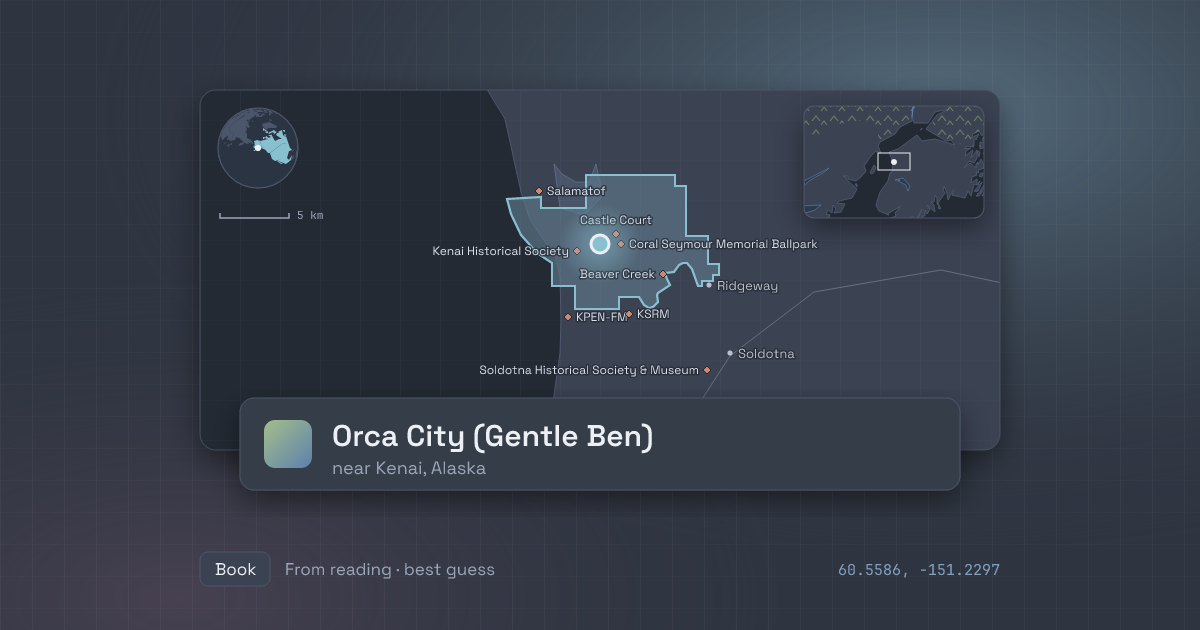
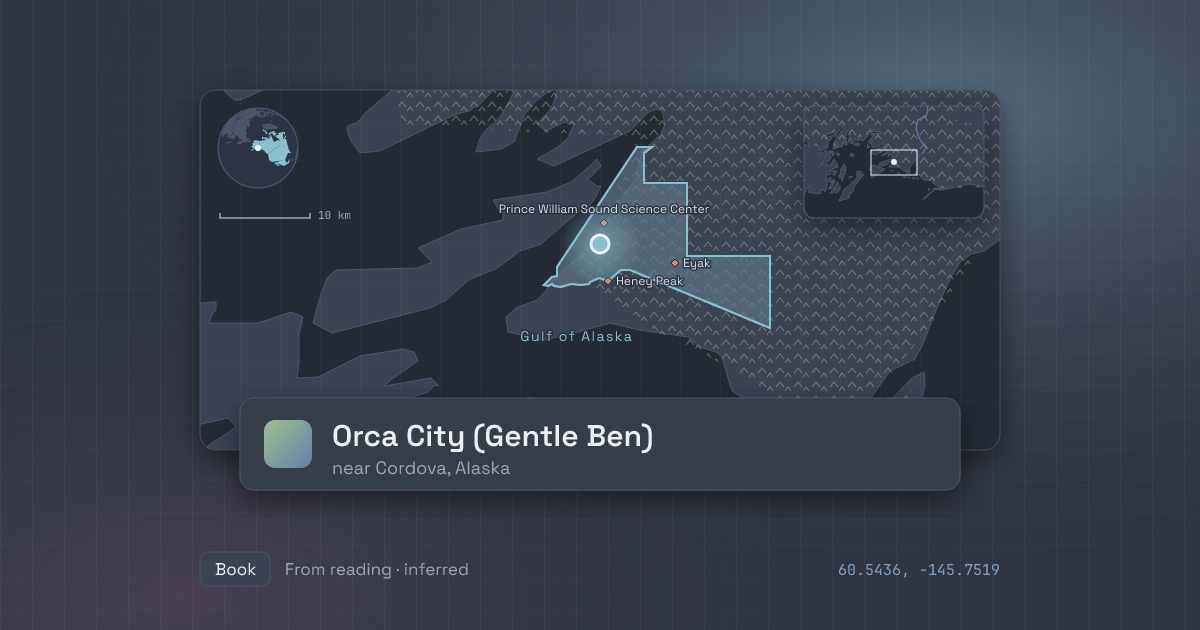
Map scan: Gentle Ben done; Orca City re-pinned to Cordova; Hinchinbrook Island, Windy Point trap

diff --git a/content/Places/Orca City (Gentle Ben).md b/content/Places/Orca City (Gentle Ben).md
@@ -2,8 +2,8 @@
 publish: true
 title: Orca City (Gentle Ben)
 created: 2026-11-23
-modified: 2026-11-26T23:17:18.241Z
-published: 2026-11-26T23:17:18.241Z
+modified: 2026-11-27T02:13:57.691Z
+published: 2026-11-27T02:13:57.691Z
 aliases:
   - Orca City
 books:
@@ -11,31 +11,33 @@ books:
 categories:
   - "[[Places]]"
 color: gray
-confidence: best-guess
-coordinates: 60.5586,-151.2297
-geo_note: "best-guess: the author calls Orca City a composite; the text's view of\
-  \ the Aleutian Range across an open-sea bay points to Cook Inlet, so pinned at Kenai"
+confidence: inferred
+coordinates: 60.5436,-145.7519
+geo_note: "inferred: the text puts Orca City on 'the Sound' among real Prince William\
+  \ Sound places (Valdez, Chenega, Latouche, Hinchinbrook), on 'Orca City Bay' between\
+  \ sea and steep mountain, with a floatplane lake a mile out of town; this matches\
+  \ Cordova on Orca Inlet (re-pinned from a Kenai best guess on 2026-11-27)"
 geo_source: Wikipedia (en)
 icon: book
+image: Attachments/Places/Orca City (Gentle Ben).svg
 location:
-  - 60.5586
-  - -151.2297
+  - 60.5436
+  - -145.7519
 tags:
   - places
   - place/literary
   - source/ai/claude
-within: "[[Kenai, Alaska]]"
-image: Attachments/Places/Orca City (Gentle Ben).svg
+within: "[[Cordova, Alaska]]"
 ---
 
 # Orca City (Gentle Ben)
 
-Fictional salmon-fishing village on the coast of territorial Alaska, pinned here at a best guess of Kenai on Cook Inlet. It is the home of Mark Andersen and the brown bear Ben in Walt Morey's _Gentle Ben_.
+Fictional salmon-fishing town on Prince William Sound in territorial Alaska, pinned at Cordova, which the book's clues point to. It is the home of Mark Andersen and the brown bear Ben in Walt Morey's _Gentle Ben_.
 
 ## At a glance
 | Source | Author | Role | In one line |
 |---|---|---|---|
-| Gentle Ben | Walt Morey | setting | Mark's one-street fishing town, swelling to thousands for the salmon run, where he befriends Fog Benson's chained bear. |
+| Gentle Ben | Walt Morey | setting | Mark's one-street fishing town on the Sound, where he befriends Fog Benson's chained bear and the town later turns against Ben. |
 
 ## Gentle Ben — Walt Morey (1965)
 Source: [Original](https://openlibrary.org/books/OL9347710M/Gentle_Ben) · [Readwise highlight](https://read.readwise.io/read/01m8d25wytj5sbse5cx89e824p)
@@ -43,7 +45,7 @@ Source: [Original](https://openlibrary.org/books/OL9347710M/Gentle_Ben) · [Read
 > Below, on his right, lay the uneven roofs of homes and stores of the fishing village of Orca City. Its one mud street, black and drying under the warm sun, slashed straight through the center of town to the bay and the sea, which stretched away, flat and endless, to the distant horizon.
 
 - **Role:** setting
-- **In the book:** Thirteen-year-old Mark Andersen lives on a rise above town, with the bay below on one side and the tundra on the other. He secretly visits Ben, Fog Benson's chained brown bear, in a shed at the edge of town, and later leads him out to a creek valley and boulder field on the tundra, where his father Karl finds them asleep together. Karl agrees to buy Ben. Before the season opens the town swells from a few hundred people to thousands, the bay fills with 1,100 seiners, and seven canneries and the fish traps get ready. Mark hauls restaurant scraps up to Ben. The Andersens then leave the town dock on their seiner _Far North_ for the fishing grounds.
-- **Why it matters:** The salmon town frames the story: Karl is a seiner fisherman, the season's opening sets the pace of the first half, and the tundra at the town's edge is where Mark and Ben are free together. Set elsewhere, the book would need the same mix of tundra, bears and canneries.
-- **Real vs. fictional:** Fictional. The author's note says "There is no Orca City as such. But its description could fit any one of a dozen fishing villages along the coast." The book is set before statehood, in the Territory of Alaska.
-- **Where is it?:** ⚠ Best guess. Clues in the text: "In the distance the Aleutian Range reared a row of white heads into the blue". The town's one mud street runs to a bay and a sea "flat and endless, to the distant horizon", with tundra and a glacier-fed salmon creek behind it. It has canneries, fish traps, cruise ships in summer, and Karl's eyes are "as cold as Columbia Glacier" (a Prince William Sound glacier, used only as a simile). Reference works (Wikipedia, the Oregon Encyclopedia on Morey) say only "Alaska". A sea horizon with the Aleutian Range in view fits the Cook Inlet coast, so the pin is on Kenai. The main alternative is Cordova, which the Columbia Glacier simile suggests but which has no view of the Aleutian Range. Other alternatives are Alaska Peninsula cannery towns.
+- **In the book:** Thirteen-year-old Mark Andersen lives on a rise above town, with the bay below on one side and the tundra on the other. He secretly visits Ben, Fog Benson's chained brown bear, in a shed at the edge of town, and Karl agrees to buy him. In summer the town swells to thousands for the salmon run; the Andersens fish the Sound on their seiner _Far North_, delivering salmon to the Northern Fisheries dock and buying old bread for Ben in Butteville, Chenega, Latouche and Valdez. In autumn Orca City shrinks back to "some three or four hundred persons". Over the winter the men at the Club Bar plot against Ben, Fog Benson attacks him in his shed, and Mayor Henry Beckett gives the family two days' notice. Mark leads Ben down Main Street at dawn to the Northern Fisheries dock, where he is crated onto the _Hustler_ to be shipped away. Later Ed Wright flies from his floatplane field on a lake a mile out of town to rescue Karl from the wrecked _Far North_ near "the Needle", where Clearwater drowns. From then on the town is the supply base for the Windy Point trap.
+- **Why it matters:** The salmon town frames the story. The season sets the pace of the first half, the tundra at the town's edge is where Mark and Ben are free together, and the town's fear of the bear drives the second half. "Mr. Jones doesn't understand Ben," Karl says. "Neither does Orca City."
+- **Real vs. fictional:** Fictional. The author's note says "There is no Orca City as such. But its description could fit any one of a dozen fishing villages along the coast." The book is set before statehood, in the Territory of Alaska. Butteville, the old gold-rush cannery town a couple of hours from the seining grounds, and the Needle are also unplaced in the text.
+- **Where is it?:** ⚠ Inferred. The Sound around Orca City is clearly Prince William Sound: the mail boat makes a "five-hundred-mile swing around the Sound", and the text names Valdez, Chenega, Latouche, Bligh Island, Constantine Harbor, [[Hinchinbrook Island (Alaska)|Hinchinbrook Island]] and the St. Elias Range. The town itself sits on "Orca City Bay" and "was built on a narrow ledge with the sea on one side and the mountain rising steeply on the other". Its floatplane field is on "a small lake" a mile out of town, and "The road goes only ten miles out of town". Karl's eyes are "as cold as Columbia Glacier". All of this fits Cordova, on Orca Inlet below the mountains, with Eyak Lake just outside town. Reference works (Wikipedia, the Oregon Encyclopedia on Morey) say only "Alaska". The main alternative is Valdez, but the text names Valdez as a separate town. One clue doesn't fit: the text twice has the Aleutian Range in view, which is far from the Sound. This was an earlier run's reason for a best guess at Kenai on Cook Inlet, which the rest of the book doesn't support.

diff --git a/content/Places/Windy Point trap (Gentle Ben).md b/content/Places/Windy Point trap (Gentle Ben).md
@@ -1,0 +1,52 @@
+---
+publish: true
+title: Windy Point trap (Gentle Ben)
+created: 2026-11-23
+modified: 2026-11-27T02:14:39.163Z
+published: 2026-11-27T02:14:39.163Z
+aliases:
+  - Windy Point trap
+  - Windy Point
+books:
+  - Gentle Ben
+categories:
+  - "[[Places]]"
+color: gray
+confidence: inferred
+coordinates: 60.3819,-146.4569
+geo_note: "inferred: the trap's spawning-stream meadow is the one Jones finds Ben\
+  \ in on the seaward side of Hinchinbrook Island, an hour from Constantine Harbor;\
+  \ pinned at the island's representative point"
+geo_source: Wikipedia (en)
+icon: book
+image: Attachments/Places/Windy Point trap (Gentle Ben).svg
+location:
+  - 60.3819
+  - -146.4569
+tags:
+  - places
+  - place/literary
+  - source/ai/claude
+within: "[[Hinchinbrook Island (Alaska)]]"
+---
+
+# Windy Point trap (Gentle Ben)
+
+Fictional salmon fish trap and shore cabin on a brown-bear island in Prince William Sound, pinned on [[Hinchinbrook Island (Alaska)|Hinchinbrook Island]]. In _Gentle Ben_ it is where the Andersens spend their second summer, find Ben again and settle his fate.
+
+## At a glance
+| Source | Author | Role | In one line |
+|---|---|---|---|
+| Gentle Ben | Walt Morey | setting | Karl watches the trap from a log cabin a mile from Ben's spawning stream; Ben saves the trap and the lumberman King, and the ending is settled here. |
+
+## Gentle Ben — Walt Morey (1965)
+
+Source: [Original](https://openlibrary.org/books/OL9347710M/Gentle_Ben) · [Readwise highlight](https://read.readwise.io/read/01m8dcf34a7ak1tt5j5w825jkq)
+
+> Far off to the left was the shape of the Windy Point trap and the shore cabin. A white seiner cruised several miles at sea. And far across that blue water, the St. Elias Range reared a necklace of white heads encircling the Sound.
+
+- **Role:** setting
+- **In the book:** In the first summer Fog Benson's pirates rob Six-Fathom Johnson's "Windy Point pile trap" an hour from Constantine Harbor, and Johnson asks Karl to buy it. After the _Far North_ is wrecked, Karl takes the job of trap watchman and the family moves into "a big two-room log cabin set back some hundred feet from the water", with the trap two hundred yards offshore. A mile down the beach is a spawning stream and "brown-bear meadow", where Ben has been living. Ben scatters Benson's gang when they raid the trap at night, then hangs around the cabin while Mud Hole Jones and his client, the lumber magnate Peter King, hunt him. King gets pinned under a rock below a shale mountain with a table-rock ledge, where Ben naps in the afternoons; Mark reaches him by a short cut and Ben rolls the rock away. King changes his mind and goes into partnership with Karl to buy the trap. The closing coda invites the reader to fly over the Windy Point trap and the meadow a mile beyond it.
+- **Why it matters:** The climax, the rescue and the happy ending all happen here, and owning the trap is what lets the family stay on the Sound with Ben nearby. Set anywhere without brown bears, salmon traps and trap pirates, the second half of the book wouldn't work.
+- **Real vs. fictional:** The trap, the cabin, the shale mountain and the meadow are fictional. The author's note says Morey worked as a fish trap inspector in Alaska.
+- **Where is it?:** ⚠ Inferred. The trap is on "one of the biggest brown-bear islands in the Sound", a short float-plane hop from Orca City, with mountains behind the beach and the St. Elias Range across the water. The meadow and spawning stream a mile from the cabin are where Ben lives, and they are the meadow Jones flies over on "the seaward side of Hinchenbrook Island". In the first summer the trap is an hour from Constantine Harbor. The text never names the trap's island, and Karl doesn't suspect Ben is there because no boat could land a crate on that beach. Still, the shared meadow makes Hinchinbrook the likeliest island, and the pin is at its representative point. Reference works say nothing about the setting. The only real Windy Point in Alaska that OpenStreetMap lists near the area is a cape on the Kenai Peninsula, outside the Sound, so it doesn't fit.

diff --git a/content/Places/Prince William Sound.md b/content/Places/Prince William Sound.md
@@ -2,11 +2,13 @@
 publish: true
 title: Prince William Sound
 created: 2026-11-21
-modified: 2026-11-23T02:27:45.731Z
-published: 2026-11-23T02:27:45.731Z
-aliases: []
+modified: 2026-11-27T02:14:50.751Z
+published: 2026-11-27T02:14:50.751Z
+aliases:
+  - the Sound
 books:
   - A Short History of Nearly Everything
+  - Gentle Ben
 categories:
   - "[[Places]]"
 color: purple
@@ -14,6 +16,7 @@ coordinates: 60.615,-147.1681
 geo_note: approximate (representative point of the sound)
 geo_source: Wikipedia (en) Prince William Sound
 icon: book
+image: Attachments/Places/Prince William Sound.svg
 location:
   - 60.615
   - -147.1681
@@ -22,17 +25,20 @@ tags:
   - place/literary
   - source/ai/claude
 within: "[[Alaska]]"
-image: Attachments/Places/Prince William Sound.svg
 ---
 
 # Prince William Sound
 
-Sound on the Gulf of Alaska coast, [[Alaska]]. In _A Short History of Nearly Everything_ its glaciers shrug off the strongest earthquake ever recorded in North America.
+Sound on the Gulf of Alaska coast, [[Alaska]]. Bryson uses its glaciers and the 1964 earthquake to show the power of ice, and Walt Morey sets all of _Gentle Ben_ around its fishing towns and bear islands.
 
 ## At a glance
 | Source | Author | Role | In one line |
 |---|---|---|---|
 | A Short History of Nearly Everything | Bill Bryson | subject | The 1964 magnitude 9.2 quake lifts the land twenty feet; the glaciers simply soak it up and keep moving. |
+| Gentle Ben | Walt Morey | backdrop | "The Sound" is the Andersens' world: salmon seining, fish traps, the mail-boat run and the brown-bear islands. |
+
+## Sub-places
+- [[Hinchinbrook Island (Alaska)]]
 
 📍 [OpenStreetMap](https://www.openstreetmap.org/?mlat=60.615&mlon=-147.1681#map=9/60.615/-147.1681) · [Google Maps](https://www.google.com/maps/search/?api=1&query=60.615,-147.1681)
 
@@ -44,3 +50,12 @@ Source: [Original](https://openlibrary.org/works/OL74128W)
 - **Role:** subject
 - **In the book:** In 1964 the strongest earthquake ever recorded on the continent, magnitude 9.2, struck one of North America's largest glacial fields here. The land rose by as much as twenty feet along the fault and water sloshed out of pools in Texas, yet the glaciers just soaked it up and kept moving.
 - **Why it matters:** Bryson's measure of the power of ice: nothing humans could do would stop an advancing ice sheet.
+
+## Gentle Ben — Walt Morey (1965)
+Source: [Original](https://openlibrary.org/books/OL9347710M/Gentle_Ben) · [Readwise highlight](https://read.readwise.io/read/01m8dcf4jv10maewhd3y4d8etm)
+
+> His Viking is the mail boat, you know. Twice a month he makes that five-hundred-mile swing around the Sound, delivering groceries, medicine, freight of all kinds, and mail.
+
+- **Role:** backdrop
+- **In the book:** The book never names the Sound in full, but it is plainly this one: the Andersens seine for salmon among "eleven hundred seiners in the Sound", buy bread for Ben in Chenega, Latouche and Valdez, end the season off Bligh Island, and see the St. Elias Range across the water. In winter Karl takes over the mail-boat run around the Sound, and the _Far North_ is wrecked on that run. Ben is put ashore on [[Hinchinbrook Island (Alaska)|Hinchinbrook]], "one of the largest brown-bear islands in the Sound".
+- **Why it matters:** The Sound's mix of fishing towns, canneries, fish traps and wild bear islands is what lets the story move a tame bear from a town shed to the wild and back into the family's life. Its home port, [[Orca City (Gentle Ben)|Orca City]], is fictional.

diff --git a/content/Places/Hinchinbrook Island (Alaska).md b/content/Places/Hinchinbrook Island (Alaska).md
@@ -1,0 +1,51 @@
+---
+publish: true
+title: Hinchinbrook Island (Alaska)
+created: 2026-11-23
+modified: 2026-11-27T02:14:12.864Z
+published: 2026-11-27T02:14:12.864Z
+aliases:
+  - Hinchinbrook Island
+  - Hinchenbrook Island
+  - Hinchenbrook
+books:
+  - Gentle Ben
+categories:
+  - "[[Places]]"
+color: purple
+coordinates: 60.3819,-146.4569
+geo_note: approximate (representative point of the island)
+geo_source: Wikipedia (en)
+icon: book
+image: Attachments/Places/Hinchinbrook Island (Alaska).svg
+location:
+  - 60.3819
+  - -146.4569
+tags:
+  - places
+  - place/literary
+  - source/ai/claude
+within: "[[Prince William Sound]]"
+---
+
+# Hinchinbrook Island (Alaska)
+
+Large island guarding the entrance to [[Prince William Sound]], Alaska. In _Gentle Ben_ it is the brown-bear island where Ben is secretly put ashore, and where the hunters come for him.
+
+## At a glance
+| Source | Author | Role | In one line |
+|---|---|---|---|
+| Gentle Ben | Walt Morey | turning point | Ben is put ashore on its seaward side; Mud Hole Jones buys the name and flies over it to find him for a trophy hunter. |
+
+## Sub-places
+- [[Windy Point trap (Gentle Ben)|Windy Point trap]]
+
+## Gentle Ben — Walt Morey (1965)
+Source: [Original](https://openlibrary.org/books/OL9347710M/Gentle_Ben) · [Readwise highlight](https://read.readwise.io/read/01m8dcf1d48dn482d0twd6exsz)
+
+> The following day Jones's beat-up red plane flew low over the seaward side of Hinchenbrook Island. He knew every bay, meadow, and stream on the island. He knew where the brownies hung out.
+
+- **Role:** turning point
+- **In the book:** Shipped out of Orca City aboard Amie Nichols's _Hustler_, Ben swims ashore on "one of the largest brown-bear islands in the Sound", winters in a root-hole den two miles from the beach and comes out in spring to a meadow and a spawning stream below a shale mountain. Mud Hole Jones, a hunting guide, pays Amie $200 for the name: "Hinchenbrook. On the seaward side." Jones flies low over the island, lands on the beach, spots Ben by his torn ear, and writes to a client in the States. Earlier, cruising off Constantine Harbor (also on the island), Mark sees the pirate boat that has robbed the Windy Point trap.
+- **Why it matters:** The island turns Ben from a town pet into a wild bear, and Jones's discovery sets up the hunt that the last chapters turn on. It also puts Ben back in the Andersens' path: the trap Karl watches the next summer is on the same kind of bear island, and the meadow Jones flies over is the one by the trap.
+- **Real vs. fictional:** Real; the text spells it "Hinchenbrook".

diff --git a/content/Places/Cordova, Alaska.md b/content/Places/Cordova, Alaska.md
@@ -1,0 +1,26 @@
+---
+publish: true
+title: Cordova, Alaska
+created: 2026-11-27T02:14:03.903Z
+modified: 2026-11-27T02:14:03.903Z
+published: 2026-11-27T02:14:03.903Z
+aliases:
+  - Cordova
+books: []
+categories:
+  - "[[Places]]"
+color: purple
+icon: book
+tags:
+  - places
+  - place/literary
+  - source/ai/claude
+within: "[[Alaska]]"
+---
+
+# Cordova, Alaska
+
+Fishing town on Orca Inlet at the eastern edge of [[Prince William Sound]], [[Alaska]]; hub for places from the reading.
+
+## Sub-places
+- [[Orca City (Gentle Ben)|Orca City]]

diff --git a/content/Places/Alaska.md b/content/Places/Alaska.md
@@ -2,8 +2,8 @@
 publish: true
 title: Alaska
 created: 2026-10-21T11:07:13.000Z
-modified: 2026-11-26T23:15:25.201Z
-published: 2026-11-26T23:15:25.201Z
+modified: 2026-11-27T02:14:54.730Z
+published: 2026-11-27T02:14:54.730Z
 aliases: []
 books: []
 categories:
@@ -24,6 +24,7 @@ US state in the far north-west of North America.
 
 - [[Chilkoot Pass]]
 - [[Circle, Alaska]]
+- [[Cordova, Alaska]]
 - [[Costco West Dimond Boulevard (Anchorage)]]
 - [[Dyea, Alaska]]
 - [[Fox Island (Alaska)]]

diff --git a/content/Places/Kenai, Alaska.md b/content/Places/Kenai, Alaska.md
@@ -2,8 +2,8 @@
 publish: true
 title: Kenai, Alaska
 created: 2026-11-26T23:15:11.278Z
-modified: 2026-11-26T23:15:11.278Z
-published: 2026-11-26T23:15:11.278Z
+modified: 2026-11-27T02:14:51.939Z
+published: 2026-11-27T02:14:51.939Z
 aliases:
   - Kenai
 books: []
@@ -24,4 +24,4 @@ Fishing town on the east shore of Cook Inlet, on the Kenai Peninsula in [[Alaska
 
 ## Sub-places
 
-- [[Orca City (Gentle Ben)|Orca City]]
+_None yet._
